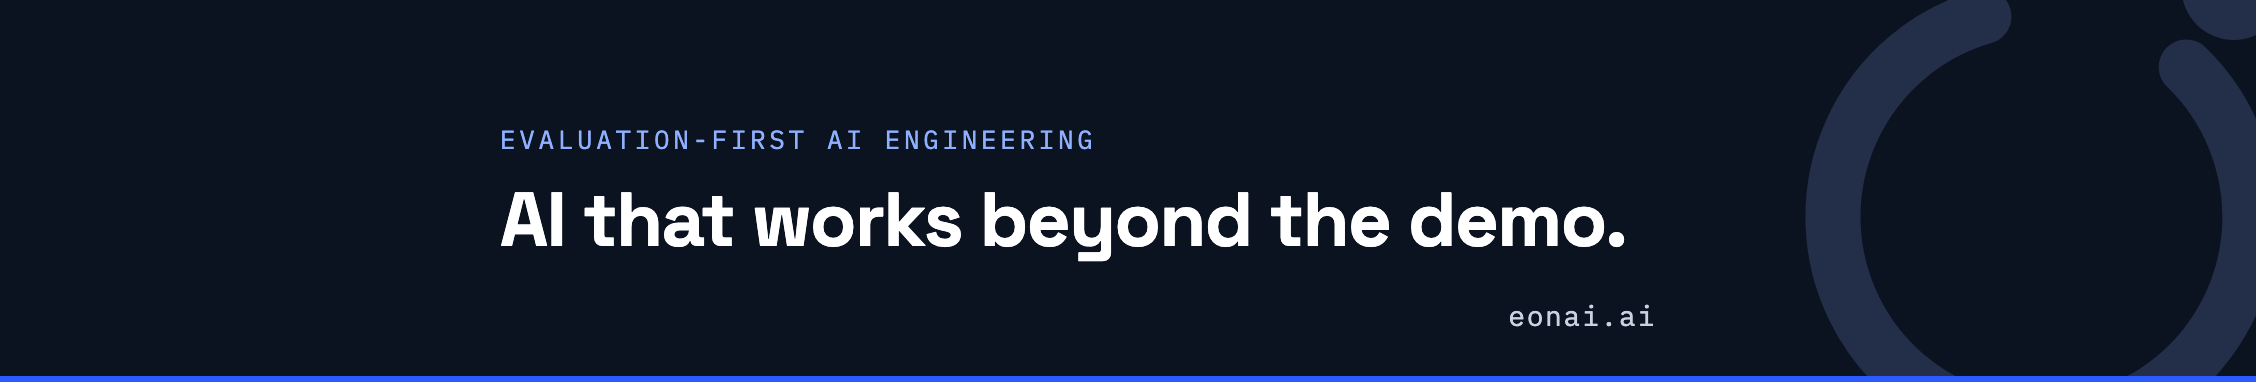
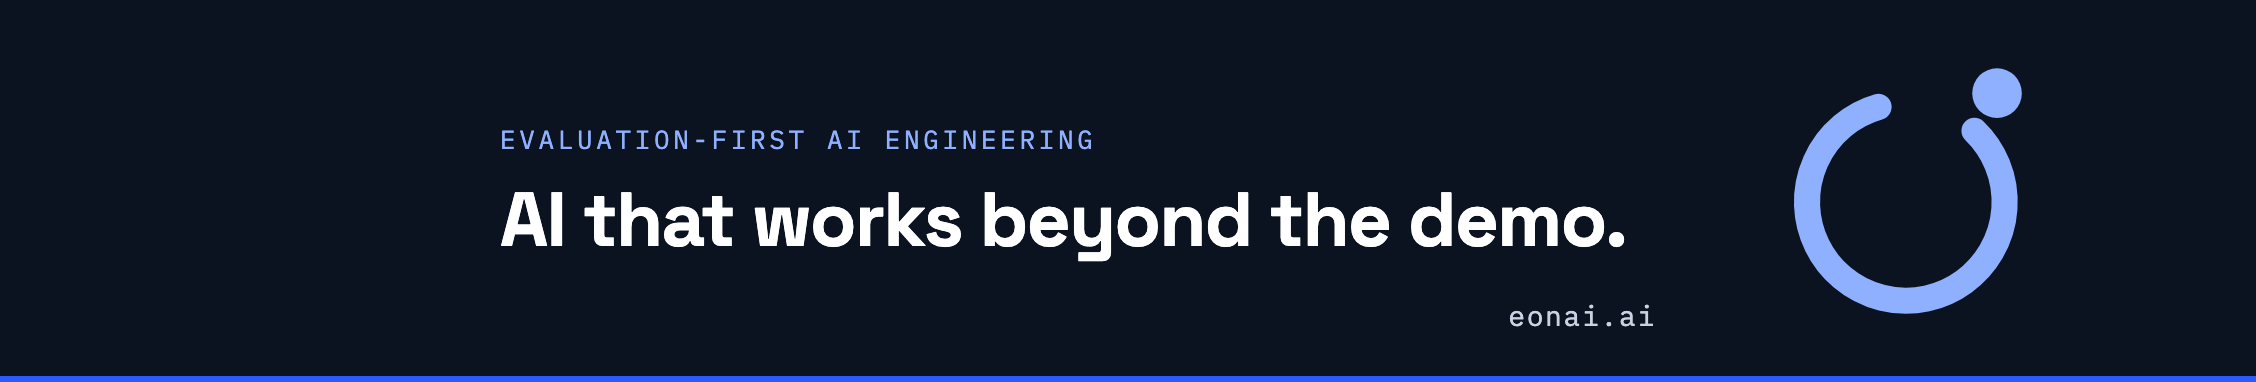
LinkedIn cover: loop mark in full accent-light, in the foreground

Changed region(s): [[0.7757, 0.0, 0.8998, 1.0], [0.9309, 0.0, 1.0, 1.0]]

diff --git a/brand/social/linkedin-cover.html b/brand/social/linkedin-cover.html
@@ -3,11 +3,11 @@
 @font-face{font-family:'PM';src:url('../fonts/plex-mono-400.woff2') format('woff2');font-weight:400}
 html,body{margin:0}
 .c{position:relative;width:1128px;height:191px;background:#0B1220;overflow:hidden;font-family:'SG',sans-serif;color:#fff}
-.mark{position:absolute;right:-30px;top:-38px;width:270px;height:270px;opacity:.18}
+.mark{position:absolute;right:110px;top:50%;transform:translateY(-50%);width:128px;height:128px;z-index:1}
 .t{position:absolute;left:250px;top:50%;transform:translateY(-50%)}
 .e{font-family:'PM',monospace;font-size:13px;letter-spacing:.14em;color:#8FB0FF;margin-bottom:12px}
 .h{font-size:38px;font-weight:700;letter-spacing:-.02em;line-height:1.05}
-.u{position:absolute;right:300px;bottom:24px;font-family:'PM',monospace;font-size:14px;letter-spacing:.06em;color:#C9D2E3}
+.u{position:absolute;right:300px;bottom:24px;z-index:1;font-family:'PM',monospace;font-size:14px;letter-spacing:.06em;color:#C9D2E3}
 .line{position:absolute;left:0;right:0;bottom:0;height:3px;background:#2B5BFF}
 </style></head><body><div class="c"><svg class="mark" xmlns="http://www.w3.org/2000/svg" viewBox="21 198 588 588" ><path fill="none" stroke="#8FB0FF" stroke-width="60.0" stroke-linecap="round" d="M467.7 353.7A227.0 227.0 0 1 1 247.4 298.8"/><circle fill="#8FB0FF" cx="519.5" cy="267.3" r="57.0"/></svg>
 <div class="t"><div class="e">EVALUATION-FIRST AI ENGINEERING</div><div class="h">AI that works beyond the demo.</div></div>
